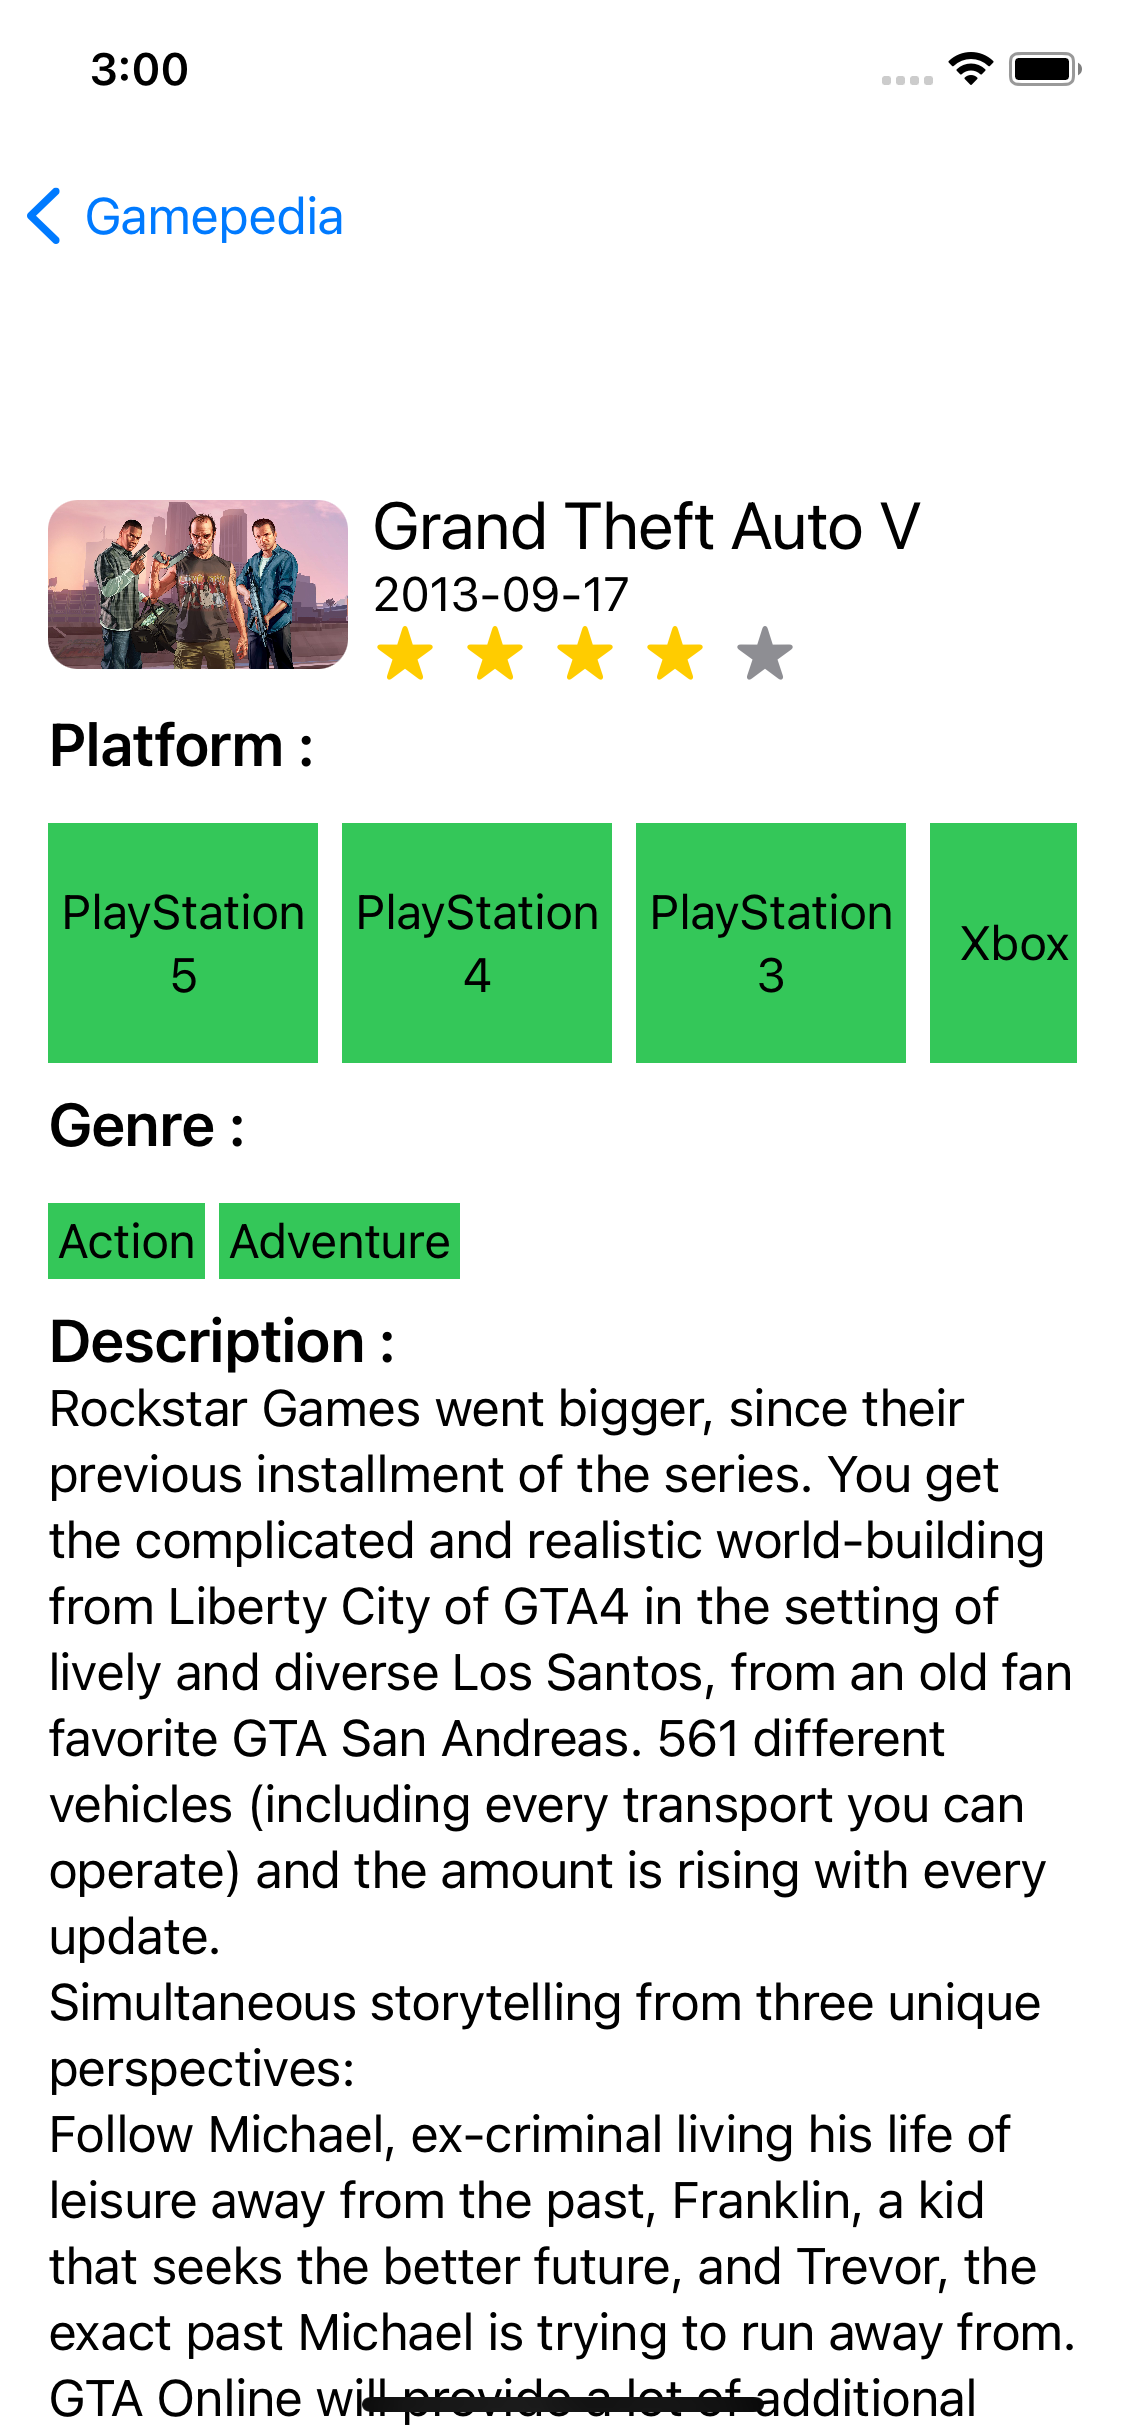
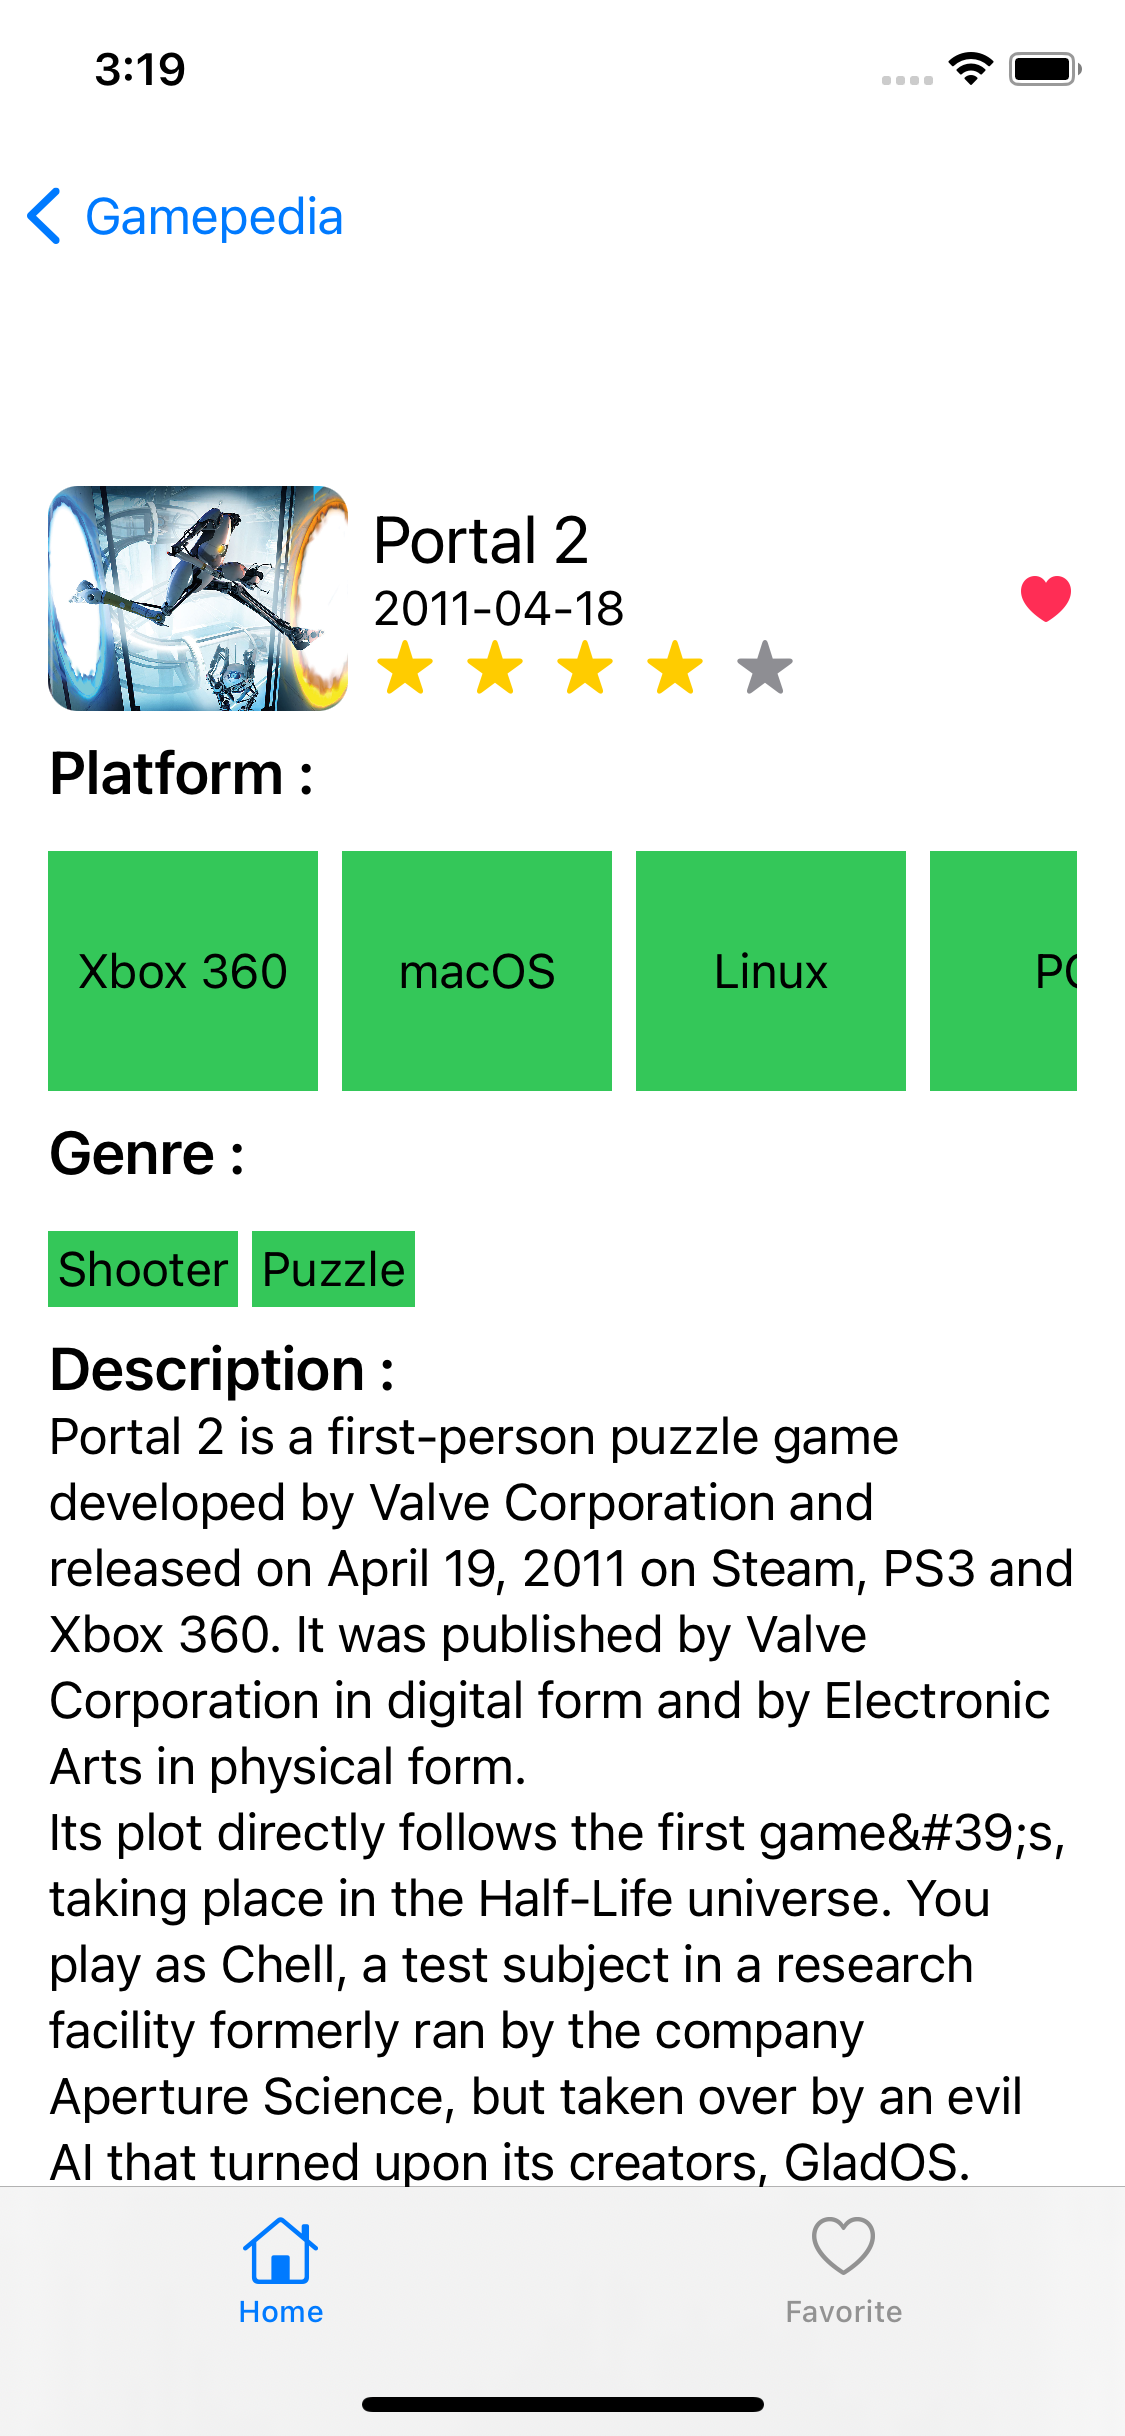
add feature to add to favorite using core data

diff --git a/gamepedia/FavoriteListView.swift b/gamepedia/FavoriteListView.swift
@@ -1,0 +1,78 @@
+//
+//  FavoriteListView.swift
+//  gamepedia
+//
+//  Created by rehanchrl on 03/10/21.
+//
+
+import SwiftUI
+
+struct FavoriteListView: View {
+    
+    @Environment(\.managedObjectContext) var managedObjectContext
+    
+    @FetchRequest(entity: Game.entity(), sortDescriptors: []) var favorites: FetchedResults<Game>
+    
+    var body: some View {
+        NavigationView {
+            List {
+                ForEach(favorites) { game in
+                    NavigationLink(destination:
+                                    DetailView(game:
+                                                GamesList(
+                                                    idGame: Int(game.idGame),
+                                                    name: game.name,
+                                                    released: game.released,
+                                                    backgroundImage: game.backgroundImage,
+                                                    rating: game.rating))
+                    ) {
+                        HStack {
+                            CustomImageView(url: game.backgroundImage ?? "")
+                                .aspectRatio(contentMode: .fit)
+                                .frame(width: 100)
+                                .cornerRadius(10)
+                            VStack(alignment: .leading) {
+                                Text(game.name ?? "")
+                                    .font(.title2)
+                                Text(game.released ?? "")
+                                    .font(.callout)
+                                RatingView(rating: Int(game.rating))
+                            }
+                            Spacer()
+                            Button {
+                                deleteFavorite(gameId: Int(game.idGame ))
+                            } label: {
+                                Image(systemName: "heart.fill").foregroundColor(.pink)
+                            }.buttonStyle(PlainButtonStyle())
+                            
+                        }
+                    }
+                    
+                }
+            }
+            .navigationTitle("Favorite")
+            .toolbar {
+                ToolbarItem(placement: .navigationBarTrailing) {
+                    NavigationLink(destination: AboutView()) {
+                        Text("About")
+                    }
+                    
+                }
+            }
+        }
+    }
+    
+    func deleteFavorite(gameId: Int) {
+        if let favorite = favorites.filter({ $0.idGame == gameId }).first {
+            managedObjectContext.delete(favorite)
+        }
+
+        PersistenceController.shared.save()
+    }
+}
+
+struct FavoriteListView_Previews: PreviewProvider {
+    static var previews: some View {
+        FavoriteListView()
+    }
+}

diff --git a/gamepedia/ContentView.swift b/gamepedia/ContentView.swift
@@ -10,16 +10,11 @@ import CoreData
 
 struct ContentView: View {
     
+    @Environment(\.managedObjectContext) var managedObjectContext
+    
+    @FetchRequest(entity: Game.entity(), sortDescriptors: []) var favorites: FetchedResults<Game>
     @State var searchText: String = ""
     @State var games:[GamesList] = []
-    
-    
-    var maxRating = 5
-    var offImage: Image?
-    var onImage = Image(systemName: "star.fill")
-    
-    var offColor = Color.gray
-    var onColor = Color.yellow
     
     var body: some View {
         NavigationView {
@@ -47,6 +42,18 @@ struct ContentView: View {
                                     .font(.callout)
                                 RatingView(rating: Int(game.rating ?? 0))
                             }
+                            Spacer()
+                            Button {
+                                if isFavorited(game) {
+                                    deleteFavorite(game)
+                                } else {
+                                    saveToFavorite(game)
+                                }
+                                
+                            } label: {
+                                Image(systemName: isFavorited(game) ? "heart.fill" : "heart" ).foregroundColor(.pink)
+                            }.buttonStyle(PlainButtonStyle())
+
                         }
                     }
                     
@@ -70,17 +77,35 @@ struct ContentView: View {
         
     }
     
-    func image(for number: Int, rating: Int) -> Image {
-        if number > rating {
-            return offImage ?? onImage
-        } else {
-            return onImage
+    func isFavorited(_ game: GamesList) -> Bool {
+        if favorites.filter({ $0.idGame == game.idGame ?? 0 }).isEmpty {
+            return false
         }
+        return true
+    }
+    
+    func saveToFavorite(_ game: GamesList) {
+        let favoriteGame = Game(context: managedObjectContext)
+        favoriteGame.idGame = Int32(game.idGame ?? 0)
+        favoriteGame.name = game.name
+        favoriteGame.backgroundImage = game.backgroundImage
+        favoriteGame.released = game.released
+        favoriteGame.rating = game.rating ?? 0
+        
+        PersistenceController.shared.save()
+    }
+    
+    func deleteFavorite(_ game: GamesList) {
+        if let favorite = favorites.filter({ $0.idGame == game.idGame ?? 0 }).first {
+            managedObjectContext.delete(favorite)
+        }
+        
+        PersistenceController.shared.save()
     }
 }
 
 struct ContentView_Previews: PreviewProvider {
     static var previews: some View {
-        ContentView().environment(\.managedObjectContext, PersistenceController.preview.container.viewContext)
+        ContentView()
     }
 }

diff --git a/gamepedia/DetailView.swift b/gamepedia/DetailView.swift
@@ -9,8 +9,12 @@ import SwiftUI
 
 struct DetailView: View {
     var game: GamesList
-    @State var gameDetail: GameDetail?
     
+    @Environment(\.managedObjectContext) var managedObjectContext
+    
+    @FetchRequest(entity: Game.entity(), sortDescriptors: []) var favorites: FetchedResults<Game>
+    
+    @State var gameDetail: GameDetail?
     
     var body: some View {
         ScrollView(.vertical, showsIndicators: false) {
@@ -27,6 +31,17 @@ struct DetailView: View {
                             .font(.callout)
                         RatingView(rating: Int(game.rating ?? 0))
                     }
+                    Spacer()
+                    Button {
+                        if isFavorited() {
+                            deleteFavorite()
+                        } else {
+                            saveToFavorite()
+                        }
+                        
+                    } label: {
+                        Image(systemName: isFavorited() ? "heart.fill" : "heart" ).foregroundColor(.pink)
+                    }.buttonStyle(PlainButtonStyle())
                 }
                 Text("Platform :").font(.title3).bold()
                 ScrollView(.horizontal, showsIndicators: false) {
@@ -67,6 +82,32 @@ struct DetailView: View {
                 self.gameDetail = gameDetail
             }
         }
+    }
+    
+    func isFavorited() -> Bool {
+        if favorites.filter({ $0.idGame == game.idGame ?? 0 }).isEmpty {
+            return false
+        }
+        return true
+    }
+    
+    func saveToFavorite() {
+        let favoriteGame = Game(context: managedObjectContext)
+        favoriteGame.idGame = Int32(gameDetail?.idGame ?? 0)
+        favoriteGame.name = gameDetail?.name
+        favoriteGame.backgroundImage = gameDetail?.backgroundImage
+        favoriteGame.released = gameDetail?.released
+        favoriteGame.rating = gameDetail?.rating ?? 0
+        
+        PersistenceController.shared.save()
+    }
+    
+    func deleteFavorite() {
+        if let favorite = favorites.filter({ $0.idGame == game.idGame ?? 0 }).first {
+            managedObjectContext.delete(favorite)
+        }
+        
+        PersistenceController.shared.save()
     }
 }
 

diff --git a/gamepedia/gamepediaApp.swift b/gamepedia/gamepediaApp.swift
@@ -9,12 +9,28 @@ import SwiftUI
 
 @main
 struct gamepediaApp: App {
+    
+    @Environment(\.scenePhase) var scenePhase
     let persistenceController = PersistenceController.shared
 
     var body: some Scene {
         WindowGroup {
-            ContentView()
-                .environment(\.managedObjectContext, persistenceController.container.viewContext)
+            TabView {
+                ContentView()
+                    .environment(\.managedObjectContext, persistenceController.container.viewContext)
+                    .tabItem {
+                        Label("Home", systemImage: "house")
+                    }
+                FavoriteListView()
+                    .environment(\.managedObjectContext, persistenceController.container.viewContext)
+                    .tabItem {
+                        Label("Favorite", systemImage: "heart")
+                    }
+            }
+            
+        }
+        .onChange(of: scenePhase) { _ in
+            persistenceController.save()
         }
     }
 }

diff --git a/gamepedia/Database/PersistenceController.swift b/gamepedia/Database/PersistenceController.swift
@@ -1,0 +1,42 @@
+//
+//  PersistentController.swift
+//  gamepedia
+//
+//  Created by rehanchrl on 02/10/21.
+//
+
+import Foundation
+import CoreData
+
+struct PersistenceController {
+    static let shared = PersistenceController()
+
+    let container: NSPersistentContainer
+
+    init(inMemory: Bool = false) {
+
+        container = NSPersistentContainer(name: "Favorite")
+
+        if inMemory {
+            container.persistentStoreDescriptions.first?.url = URL(fileURLWithPath: "/dev/null")
+        }
+
+        container.loadPersistentStores { _, error in
+            if let error = error {
+                fatalError("Error: \(error.localizedDescription)")
+            }
+        }
+    }
+    
+    func save() {
+        let context = container.viewContext
+
+        if context.hasChanges {
+            do {
+                try context.save()
+            } catch {
+                // Show some error here
+            }
+        }
+    }
+}

diff --git a/gamepedia/extension/CustomImageView.swift b/gamepedia/extension/CustomImageView.swift
@@ -18,7 +18,7 @@ struct CustomImageView: View {
         
         init(url: String) {
             guard let parsedURL = URL(string: url) else {
-                fatalError("Invalid URL: \(url)")
+                return
             }
             
             URLSession.shared.dataTask(with: parsedURL) { data, response, error in

diff --git a/README.md b/README.md
@@ -1,13 +1,16 @@
 # Gamepedia
 > game catalog in app
 
-this is an app for see list of game base on this [API](https://rawg.io) and if you click one of the game it will show the detail game such as platform support, genre and the description. i dont use any third party so you can run without installing them.
+this is an app for see list of game base on this [API](https://rawg.io) and if you click one of the game it will show the detail game such as platform support, genre and the description. You can add a movie to favorite by clicking the heart button and the icon will change if it already added to your favorite. you can see your list of favorite too on the favorite tab. i dont use any third party so you can run without installing them.
+
+i have designed the lo-fi mockup [here](https://www.figma.com/file/HJCe0fESvxWv0O0pgiqHEu/Gamepedia?node-id=0%3A1) you can check the lo-fi design in design folder
 
 ## Screenshots
 
-| Home Screen                                  | Detail Screen                                    | About Screen                                   |
-| -------------------------------------------- | ------------------------------------------------ | ---------------------------------------------- |
-| ![Home Screen](/screenshots/Home.png) | ![Detail Screen](/screenshots/Detail.png) | ![About Screen](/screenshots/Profile.png) |
+| Home Screen                                  | Favorite Screen                                   | Detail Screen                                    | About Screen                                   |
+| -------------------------------------------- | ------------------------------------------------ | ------------------------------------------------ | ---------------------------------------------- |
+| ![Home Screen](/screenshots/Home.png) | ![Favorite Screen](/screenshots/Favorite.png) | ![Detail Screen](/screenshots/Detail.png) | ![About Screen](/screenshots/Profile.png) |
+
 
 
 ## Meta
